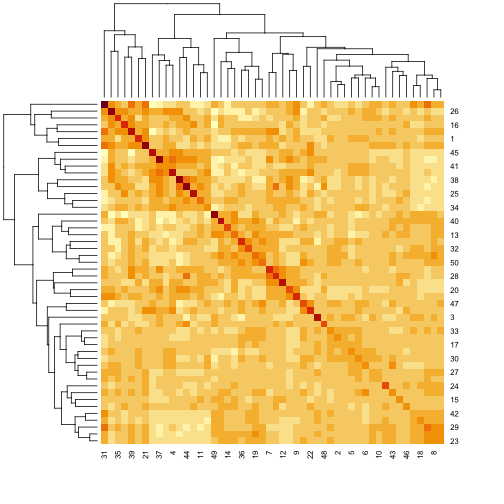
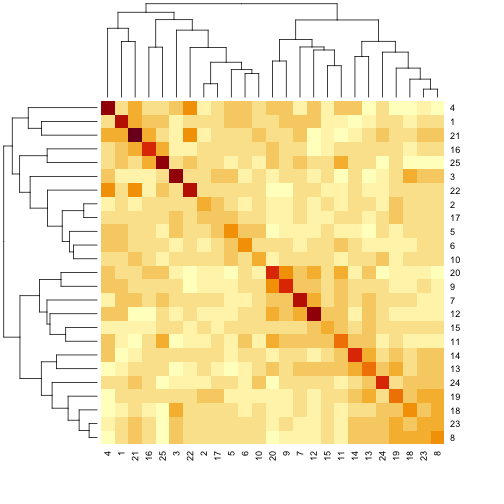
fix exercises

diff --git a/_episodes/03-calc-genoprob.md b/_episodes/03-calc-genoprob.md
@@ -360,18 +360,50 @@ The coordinates along chromosome 19 are shown on the horizontal axis and the thr
 {: .challenge}
 
 > ## Challenge 2
-> Calculate genotype probabilities for a different data set from the [qtl2 data repository](https://github.com/rqtl/qtl2data), this one from a study of obesity and diabetes in a C57BL/6 (B6) × BTBR intercross.   
+> 1). Load a second dataset from Arabidopsis recombinant inbred  
+> lines ([Moore et al, Genetics, 2013](https://www.genetics.org/content/195/3/1077)) in a study of  
+> plant root response to gravity (gravitropism).  
+> `grav <- read_cross2(file = system.file('extdata', 'grav2.zip', package = 'qtl2'))`  
+> 2). How many individuals were in the study? How many phenotypes?  
+> How many chromosomes?  
+> 3). Insert pseudomarkers at 1cM intervals and save the results  
+> to an object called `gravmap`. Have a look at the first chromosome.  
+> 4). Calculate genotype probabilities and save the results to an object 
+> called `gravpr`. View the genotypes for the first three markers and  
+> pseudomarkers on chromosome 1 for the first five individuals.   
+>
+> > ## Solution to Challenge 2
+> >
+> > 1). `grav <- read_cross2(file = system.file('extdata', 'grav2.zip', package = 'qtl2'))`  
+> > 2). `summary(grav)`   
+> > 3). `gravmap <- insert_pseudomarkers(map = grav$gmap, step = 1)`  
+> > followed by `head(gravmap, n=1)`   
+> > 4). `gravpr  <- calc_genoprob(cross = grav, map = gravmap)` followed by  
+> > `(gravpr$`1`)[1:5,,"PVV4"]`, `(gravpr$`1`)[1:5,,"c1.loc1"]`, and  
+> > `(gravpr$`1`)[1:5,,"c1.loc2"]`
+> {: .solution}
+{: .challenge}
+
+> ## Challenge 3
+> Calculate genotype probabilities for a different data set from the  
+> [qtl2 data repository](https://github.com/rqtl/qtl2data), this one from a  
+> study of obesity and diabetes in a C57BL/6 (B6) × BTBR intercross.   
 > 1). Create a new script in RStudio with File -> New File -> R Script.  
-> 2)  Download the B6 x BTBR zip file from the [qtl2 data repository](https://github.com/rqtl/qtl2data) into an object called `b6btbr` by running this code:
-`b6btbr <- read_cross2(file = "https://raw.githubusercontent.com/rqtl/qtl2data/master/B6BTBR/b6btbr.zip")`  
-> 3). View a summary of the `b6btbr` data. How many individuals? phenotypes? chromosomes? markers? 
+> 2)  Download the B6 x BTBR zip file from the 
+> [qtl2 data repository](https://github.com/rqtl/qtl2data) into an object  
+> called `b6btbr` by running this code:  
+> `b6btbr <- read_cross2(file = "https://raw.githubusercontent.com/rqtl/qtl2data/master/B6BTBR/b6btbr.zip")`  
+> 3). View a summary of the `b6btbr` data. How many individuals? phenotypes?  
+> chromosomes? markers? 
 > 4). View the genetic map for the `b6btbr` data.  
-> 5). Insert pseudomarkers at 2 cM intervals. Assign the results to an object called `b6btbrmap`.    
-> 6). Calculate genotype probabilities assuming a genotyping error probability of 0.001. Assign the results to an object called `b6btbrpr`.    
+> 5). Insert pseudomarkers at 2 cM intervals. Assign the results to an object  
+> called `b6btbrmap`.    
+> 6). Calculate genotype probabilities assuming a genotyping error probability  
+> of 0.001. Assign the results to an object called `b6btbrpr`.    
 > 7). View the first several rows of genotype probabilities for 
 > any marker on chromosome 18.  
 >
-> > ## Solution to Challenge 2
+> > ## Solution to Challenge 3
 > >
 > > 1). Create a new script in RStudio with File -> New File -> R Script.  
 > > 2). `b6btbr <- read_cross2(file = "https://raw.githubusercontent.com/rqtl/qtl2data/master/B6BTBR/b6btbr.zip`  

diff --git a/_episodes/08-calc-kinship.md b/_episodes/08-calc-kinship.md
@@ -66,7 +66,7 @@ We can also look at the first 50 mice in the kinship matrix.
 
 
 ~~~
-n_samples = 50
+n_samples <- 25
 heatmap(kinship[1:n_samples, 1:n_samples], symm = TRUE)
 ~~~
 {: .r}
@@ -97,21 +97,29 @@ kinship <- calc_kinship(pr, cores=4)
 {: .r}
 
 > ## Challenge 1
-> Insert pseudomarkers into a new map called `sparser_map` at 2 cM intervals.  
-> Calculate genotype probabilities, leaving the error probability at the default value.  
-> Calculate kinship with these new probabilities.
-> View the first several rows and columns of the kinship matrix.
+> 1). Insert pseudomarkers into a new map called `sparser_map` at  
+> 2 cM intervals.  
+> 2). Calculate genotype probabilities and save as an object called `pr2`.   
+> Leave the error probability at the default value.  
+> 3). Calculate kinship with these new probabilities. Save as `kinship2`.  
+> 4). View the first several rows and columns of the `kinship2` matrix and  
+> compare to the original `kinship` matrix with a heatmap.
 >
 >
 > > ## Solution to Challenge 1
 > >
+> > 1). `sparser_map <- insert_pseudomarkers(map = map, step = 2)`   
+> > 2). `pr2 <- calc_genoprob(cross = iron, map = sparser_map)`  
+> > 3). `kinship2 <- calc_kinship(probs = pr2)`  
+> > 4). `kinship2[1:5, 1:5]` and `heatmap(kinship2[1:n_samples, 1:n_samples], symm = TRUE)`
 > {: .solution}
 {: .challenge}
 
 > ## Challenge 2
 > Think about what a kinship matrix is and what it 
 > represents. Share your understanding with a neighbor. 
-> Write your explanation in the collaborative document.
+> Write your explanation in the collaborative document or in your  
+> own personal notes.
 >
 > > ## Solution to Challenge 2
 > >
